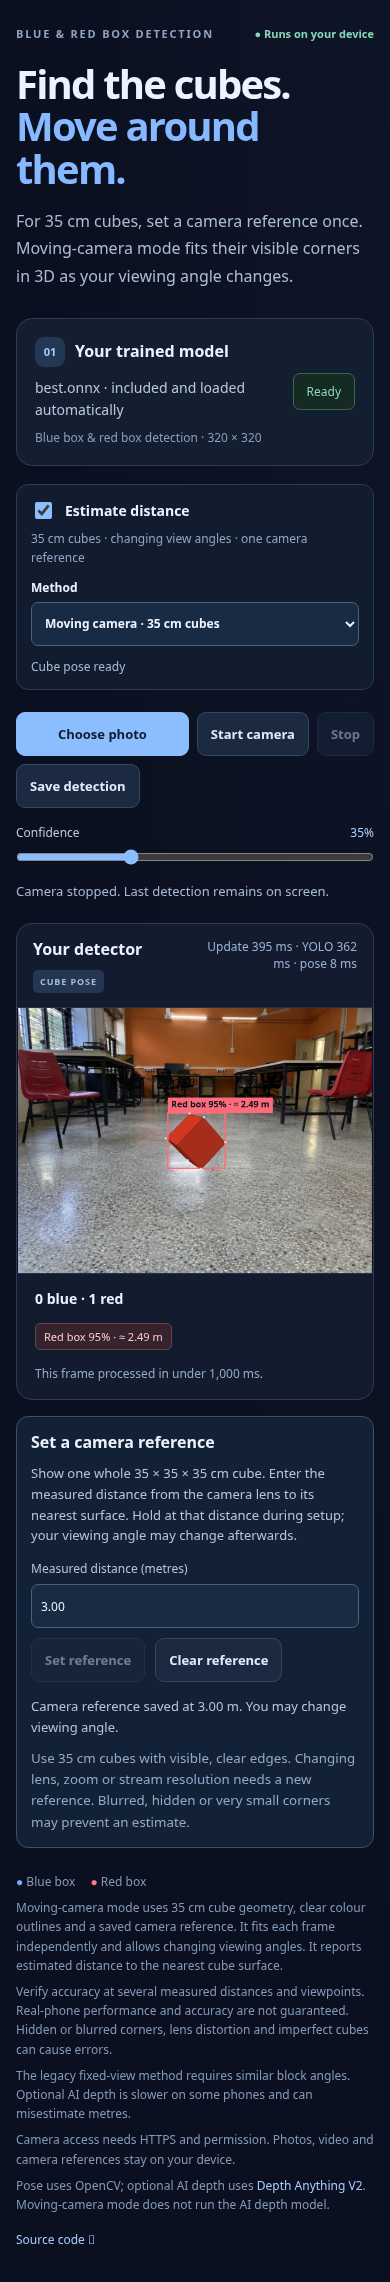
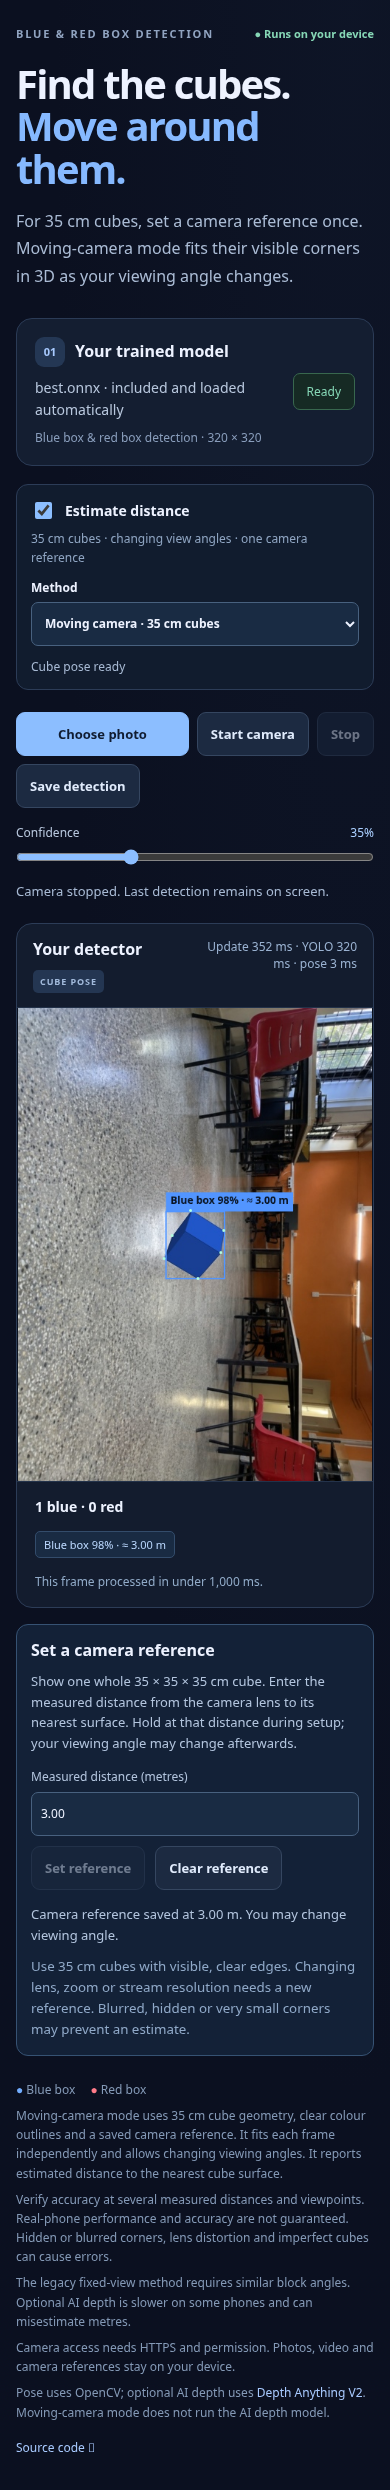
Preserve cube camera calibration across portrait and landscape rotation

diff --git a/app.js b/app.js
@@ -1,7 +1,7 @@
 import {INPUT_SIZE,CLASSES,COLORS,letterbox,rgbaToTensor,decode} from './detector.js';
 import {DEPTH_SIZE,depthTensor,medianBlockDepth,distanceLabel,createDepthEstimator} from './depth.js?v=metric2';
 import {REFERENCE_SAMPLES,cameraProfile,sameCamera,referenceSample,createCalibration,restoreCalibration,calibratedDistance} from './calibration.js?v=1';
-import {restorePoseReference,createPoseEstimator} from './pose.js?v=1';
+import {restorePoseReference,createPoseEstimator,samePoseCamera} from './pose.js?v=2';
 
 const $=id=>document.getElementById(id);
 const frame=document.createElement('canvas'),prep=document.createElement('canvas');
@@ -116,13 +116,13 @@ function collectReference(result){
 function collectPoseReference(reference){
   if(!calibrationRequest||!reference)return;
   const request=calibrationRequest;
-  if(request.profile&&!sameCamera(request.profile,frameProfile))throw new Error('Camera settings changed during setup. Try again.');
-  request.profile={...frameProfile};request.samples.push(reference.focalNormalized);
+  if(request.profile&&!samePoseCamera(request.profile,frameProfile))throw new Error('Camera settings changed during setup. Try again.');
+  request.profile={...frameProfile};request.samples.push(reference.focalNormalized*frame.width/Math.max(frame.width,frame.height));
   $('calibrationState').textContent=`Camera reference frame ${request.samples.length}/${REFERENCE_SAMPLES} · hold at the measured distance`;
   if(request.samples.length===REFERENCE_SAMPLES){
     const values=[...request.samples].sort((a,b)=>a-b),focalNormalized=values[Math.floor(values.length/2)];
     if(values.some(v=>Math.abs(v/focalNormalized-1)>.08))throw new Error('The camera reference was unstable. Hold at the measured distance and retry.');
-    poseReference=restorePoseReference({version:1,sideMetres:.35,focalNormalized,referenceMetres:request.metres,profile:request.profile});
+    poseReference=restorePoseReference({version:1,focalBasis:'long-edge',sideMetres:.35,focalNormalized,referenceMetres:request.metres,profile:request.profile});
     if(!poseReference)throw new Error('This camera cannot safely save a reference.');
     calibrationRequest=null;try{localStorage.setItem(poseReferenceKey,JSON.stringify(poseReference));}catch{}
     updateMethod();controls();
@@ -144,13 +144,13 @@ async function detect(){
     const result={boxes:decode(outputs[model.outputNames[0]],geometry,confidence,.45),elapsed,startedAt,frameNumber,mode,depthElapsed:null,depthEnabled:enabled,depthError:null};
     result.boxes.forEach(box=>box.distance=null);
     if(enabled&&mode==='pose'){
-      const matching=frameProfile&&poseReference&&sameCamera(poseReference.profile,frameProfile);
+      const matching=frameProfile&&poseReference&&samePoseCamera(poseReference.profile,frameProfile);
       result.boxes.forEach(box=>box.distanceReason=!frameProfile?'Use the calibrated camera':poseReference&&!matching?'Recalibrate camera':'Set camera reference');
       if(frameProfile&&(matching||calibrationRequest)&&result.boxes.length){
         poseBusy=true;
         try{
           const pixels=frame.getContext('2d',{willReadFrequently:true}).getImageData(0,0,frame.width,frame.height).data;
-          const options=calibrationRequest?{referenceMetres:calibrationRequest.metres}:{focalNormalized:poseReference.focalNormalized};
+          const options=calibrationRequest?{referenceMetres:calibrationRequest.metres}:{focalNormalized:poseReference.focalNormalized*Math.max(frame.width,frame.height)/frame.width};
           const pose=await poseEstimator.infer(pixels,frame.width,frame.height,result.boxes,options);
           if(token!==epoch||revision!==settingsRevision)return;
           if(calibrationRequest){
@@ -160,7 +160,7 @@ async function detect(){
           result.depthElapsed=pose.elapsed;
           result.boxes.forEach((box,i)=>{
             box.posePoints=pose.boxes[i]?.points;
-            if(!calibrationRequest&&poseReference&&sameCamera(poseReference.profile,frameProfile)){box.distance=pose.boxes[i]?.metres??null;box.distanceReason=pose.boxes[i]?.reason||'Cube corners unclear';}
+            if(!calibrationRequest&&poseReference&&samePoseCamera(poseReference.profile,frameProfile)){box.distance=pose.boxes[i]?.metres??null;box.distanceReason=pose.boxes[i]?.reason||'Cube corners unclear';}
           });
         }catch(error){
           if(token!==epoch||revision!==settingsRevision)return;
@@ -168,7 +168,7 @@ async function detect(){
           result.boxes.forEach(box=>box.distanceReason=error.message);
         }finally{poseBusy=false;}
       }else if(calibrationRequest&&result.boxes.length===0){calibrationRequest=null;$('calibrationState').textContent='Show one complete cube, then set the camera reference again.';controls();}
-      const currentMatches=frameProfile&&poseReference&&sameCamera(poseReference.profile,frameProfile);
+      const currentMatches=frameProfile&&poseReference&&samePoseCamera(poseReference.profile,frameProfile);
       $('depthState').textContent=!frameProfile?'Use the calibrated camera':poseReference&&!currentMatches&&!calibrationRequest?'Recalibrate camera':poseReference?'Cube pose ready':'Reference needed';
     }
     if(enabled&&mode==='calibrated'){

diff --git a/pose.js b/pose.js
@@ -1,5 +1,9 @@
+export function samePoseCamera(a,b){
+  return Boolean(a&&b&&a.deviceId===b.deviceId&&a.facingMode===b.facingMode&&Math.abs(a.zoom-b.zoom)<.001&&
+    Math.min(a.width,a.height)===Math.min(b.width,b.height)&&Math.max(a.width,a.height)===Math.max(b.width,b.height));
+}
 export function restorePoseReference(value){
-  return value?.version===1&&value.sideMetres===.35&&Number.isFinite(value.focalNormalized)&&value.focalNormalized>=.25&&value.focalNormalized<=5&&
+  return value?.version===1&&value.focalBasis==='long-edge'&&value.sideMetres===.35&&Number.isFinite(value.focalNormalized)&&value.focalNormalized>=.2&&value.focalNormalized<=5&&
     Number.isFinite(value.referenceMetres)&&value.referenceMetres>=.3&&value.referenceMetres<=15&&
     value.profile&&typeof value.profile.deviceId==='string'&&value.profile.deviceId.length>0&&
     Number.isFinite(value.profile.width)&&value.profile.width>0&&Number.isFinite(value.profile.height)&&value.profile.height>0&&

diff --git a/index.html b/index.html
@@ -8,7 +8,7 @@
   <link rel="icon" href="favicon.svg" type="image/svg+xml">
   <link rel="stylesheet" href="styles.css?v=pose1">
   <script defer src="vendor/ort.wasm.min.js"></script>
-  <script type="module" src="app.js?v=pose1"></script>
+  <script type="module" src="app.js?v=pose2"></script>
 </head>
 <body>
 <main>

diff --git a/tests/moving_camera_smoke.py b/tests/moving_camera_smoke.py
@@ -32,14 +32,15 @@ with sync_playwright() as p:
     page.on('request',lambda request:requests.append(request.url))
     page.add_init_script("""navigator.mediaDevices.getUserMedia=async()=>{
       const canvas=document.createElement('canvas');canvas.width=640;canvas.height=480;
-      window.setScene=async name=>{
+      window.setScene=async(name,portrait=false)=>{
         const image=await createImageBitmap(await (await fetch(new URL('tests/fixtures/motion/'+name,location.href))).blob());
-        canvas.getContext('2d').drawImage(image,0,0);image.close();
+        canvas.width=portrait?480:640;canvas.height=portrait?640:480;
+        const ctx=canvas.getContext('2d');if(portrait){ctx.translate(480,0);ctx.rotate(Math.PI/2);}ctx.drawImage(image,0,0);image.close();
         const video=document.querySelector('#video');
         if(video.srcObject)await new Promise(resolve=>video.requestVideoFrameCallback(resolve));
       };
       await window.setScene('motion-0.jpg');const stream=canvas.captureStream(10),track=stream.getVideoTracks()[0];
-      track.getSettings=()=>({deviceId:'moving-camera-scene',width:640,height:480,zoom:1,facingMode:'environment'});
+      track.getSettings=()=>({deviceId:'moving-camera-scene',width:canvas.width,height:canvas.height,zoom:1,facingMode:'environment'});
       return stream;
     };""")
     page.goto(args.url,wait_until='networkidle')
@@ -65,6 +66,12 @@ with sync_playwright() as p:
         assert 'reference angle' not in text.lower()
         observations.append({'scene':scene['name'],'camera_angles_degrees':scene['angles'],'synthetic_surface_metres':scene['truth_metres'],
                              'estimated_metres':metres,'relative_error':error,'update_ms':float(page.locator('#timing').get_attribute('data-total-ms'))})
+    before=int(page.locator('#timing').get_attribute('data-frame-number'))
+    page.evaluate("()=>window.setScene('motion-1.jpg',true)")
+    page.wait_for_function("before=>Number(document.querySelector('#timing').dataset.frameNumber)>=before+2",arg=before,timeout=15000)
+    text=page.locator('#detectionList').inner_text();found=re.search(r'≈ ([0-9.]+) m',text)
+    assert found and abs(float(found.group(1))/3-1)<.1,('portrait rotation',text)
+    observations.append({'scene':'motion-1.jpg rotated 90 degrees to portrait','synthetic_surface_metres':3,'estimated_metres':float(found.group(1))})
     normal=sample_frames(page)
     cdp=context.new_cdp_session(page);cdp.send('Emulation.setCPUThrottlingRate',{'rate':4})
     slowed=sample_frames(page);cdp.send('Emulation.setCPUThrottlingRate',{'rate':1})
@@ -97,7 +104,7 @@ def summary(values):
 report={'passed':True,'date':'2026-10-17','runtime':'Headless Chromium container; single-thread WASM; real YOLO and OpenCV cube pose',
         'normal':summary(normal),'chrome_cpu_slowdown_4x':summary(slowed),'viewpoints':observations,
         'checks':['moving-camera mode by default','one five-frame camera reference','changed yaw/pitch/roll without re-referencing',
-                  'changed distance','no AI depth model requested','mobile layout','zoom change invalidates camera reference','clear reference'],
+                  'changed distance','portrait/landscape rotation preserves intrinsics','no AI depth model requested','mobile layout','zoom change invalidates camera reference','clear reference'],
         'limitations':'Rendered cubes and a simulated camera. Not measured on iQOO Neo 6 and not a physical accuracy validation. Clear full cube corners and accurate 35 cm dimensions are required.'}
 args.report.write_text(json.dumps(report,indent=2)+'\n')
 print(json.dumps(report,indent=2))

diff --git a/README.md b/README.md
@@ -12,7 +12,7 @@ The default now uses **35 × 35 × 35 cm cube pose**, rather than assuming the o
 
 YOLO finds blue/red cubes. A separate OpenCV worker finds colour-contour corners and fits a known cube in perspective using `solvePnP`. It handles one-, two-, and three-face outlines and rejects fits whose full projected cube falls outside the observed outline. The measured reference estimates camera focal scale; the five-frame median is saved in this browser. Each subsequent frame estimates pose independently, without comparing its aspect ratio to the reference. The reported range is to the nearest cube surface.
 
-The camera model assumes square pixels, a centred principal point and no lens distortion correction. This is intended for accurate 35 cm cubes with clear, complete edges. Blur, occlusion, poor colour separation, tiny outlines, imperfect cubes, and lens distortion may prevent or bias an estimate. It suppresses estimates when corners or their fit are unreliable. A camera/lens/zoom/stream-resolution change still needs a new camera reference. Photos cannot reuse that camera reference.
+The camera model assumes square pixels, a centred principal point and no lens distortion correction. This is intended for accurate 35 cm cubes with clear, complete edges. Blur, occlusion, poor colour separation, tiny outlines, imperfect cubes, and lens distortion may prevent or bias an estimate. It suppresses estimates when corners or their fit are unreliable. Focal scale is normalized to the longer frame edge so a portrait/landscape transposition can reuse the same reference. A change in camera, lens, zoom, field of view or capture format still needs a new reference. Photos cannot reuse that camera reference.
 
 The default does not run the AI depth model. OpenCV loads once when needed; cold loading and setup can exceed the steady-frame target. **Update** includes capture, preprocessing, YOLO, pose and drawing. See `validation/moving-camera-browser.json` for actual cloud Chromium timing samples and synthetic rotated-view checks. Those are not iQOO Neo 6 timings or physical accuracy measurements. Validate several actual distances and viewpoints on the phone before relying on them.
 
